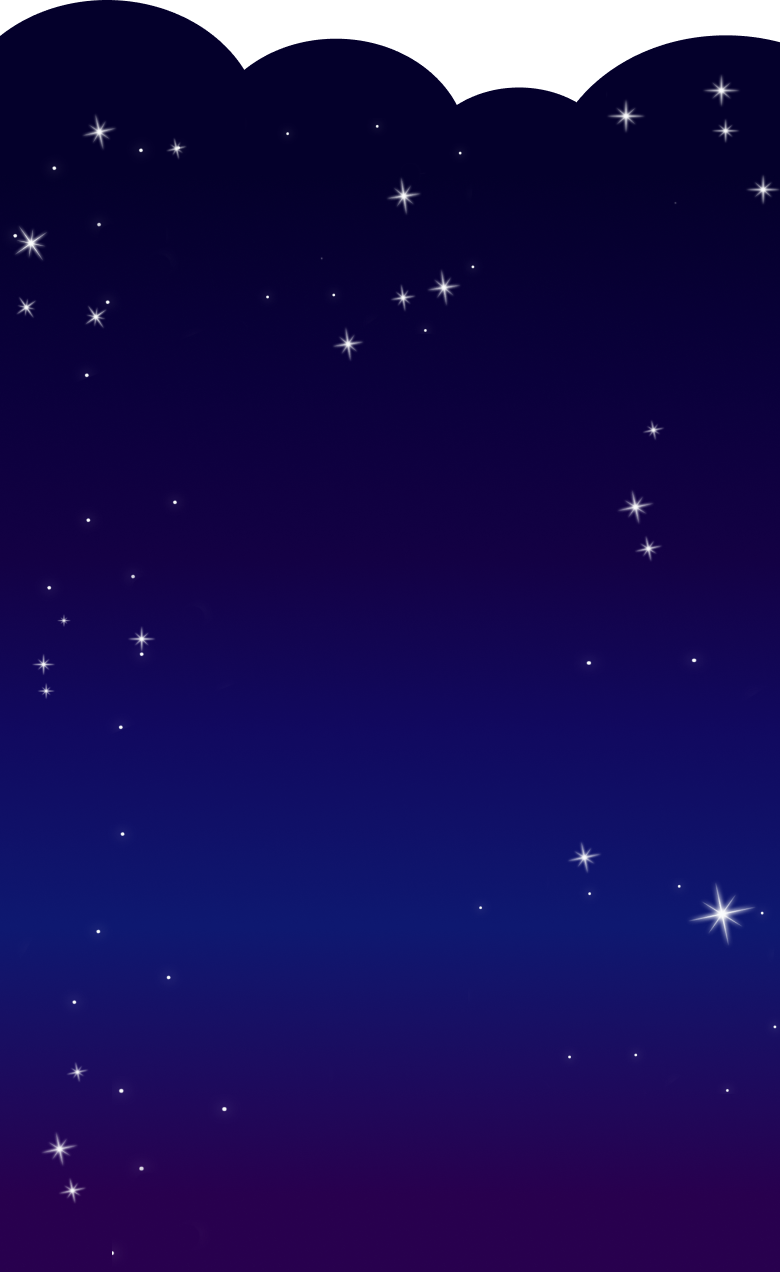
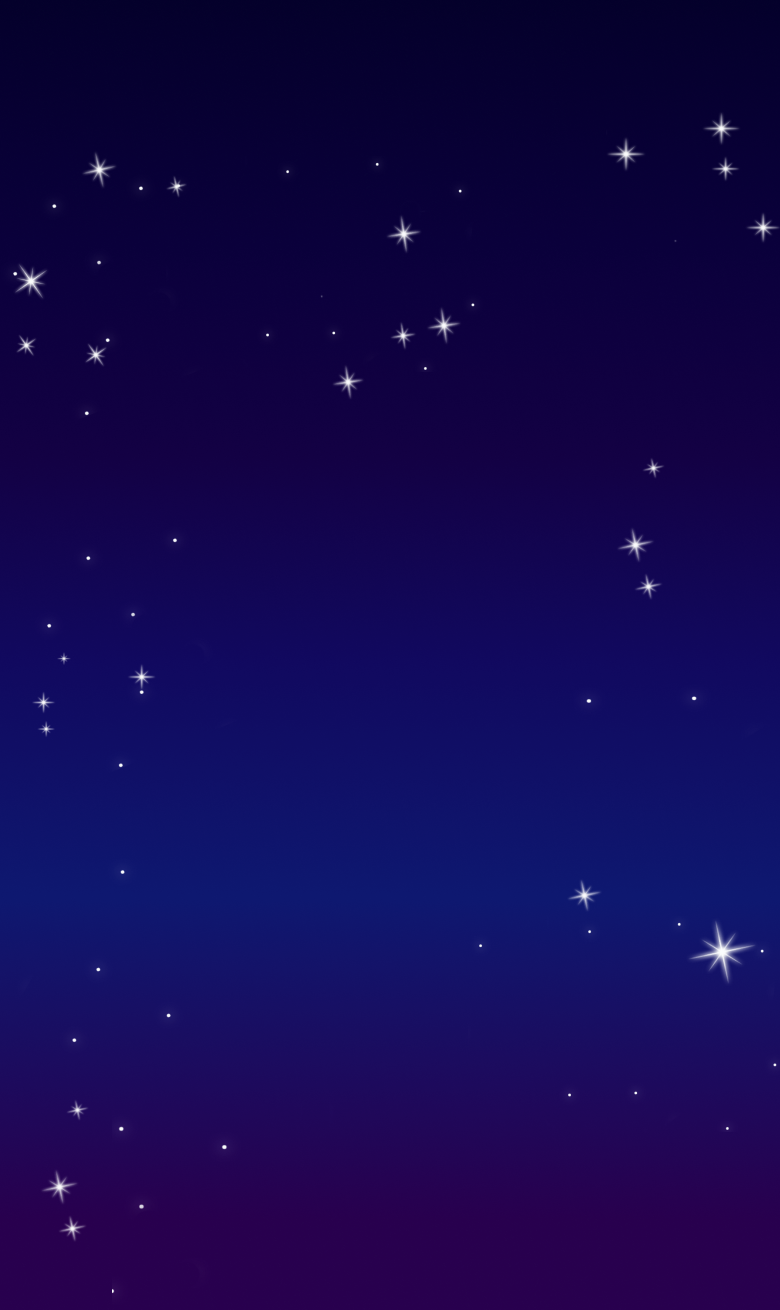
update the landing page

diff --git a/style.css b/style.css
@@ -113,11 +113,21 @@ h2 {
     align-items: center;
     margin: 0 20px;
 }
+.howDoesItWork span {
+    text-transform: uppercase;
+}
+.overlayCloud {
+    width: 100%;
+    margin-top: -5px;
+}
 .experiences {
     background: url("src/img/experiences-bg.png");
     background-repeat: repeat-x;
-    background-size: contain;
-    padding-top: 75px;
+    background-position: bottom;
+    background-attachment: fixed;
+    background-size: cover;
+    color: var(--white-font-color);
+    padding-bottom: 40px;
 }
 .experiences .checkout {
     padding-left: 20px;
@@ -130,11 +140,12 @@ h2 {
 }
 .chooseExperience {
     margin-top: 50px;
-    padding-left: 20px;
+    padding: 0 20px;
     display: grid;
     grid-gap: 20px;
     grid-auto-flow: column;
     overflow-x: auto;
+    overflow-y: hidden;
 }
 .chooseExperience h2 {
     color: white;
@@ -157,8 +168,8 @@ h2 {
     padding: 10px 20px;
 }
 .exp1, .exp2, .exp3, .exp4, .exp5 {
-    height: 17em;
-    width: 15em;
+    height: 18em;
+    width: 10em;
     border-radius: 13px;
 }
 .chooseExperience .expImg {
@@ -207,7 +218,81 @@ h2 {
     border: 1px solid #210943;
     border-radius: 3px;
 }
-
+.dataCollected {
+    background: rgba(14, 9, 53, 0.66);
+    border-radius: 13px;
+    margin: 20px;
+    padding: 20px;
+}
+.dataCollected h3 {
+    text-transform: uppercase;
+    color: var(--white-font-color);
+    letter-spacing: 1px;
+}
+.dataCollected #progressBar {
+    height: 15px;
+    width: 100%;
+    border-radius: 13px;
+    background: white;
+    margin: 10px 0;
+}
+.dataCollected #progress {
+    height: 15px;
+    width: 100%;
+    border-radius: 13px;
+    background: white;
+    margin: 10px 0;
+}
+.dataCollected .dataProgress, .dataCollected .badgesContainer {
+    display: flex;
+    align-items: center;
+}
+.dataProgress #percentage {
+    padding: 0 10px;
+}
+.dataCollected .badgesContainer .badges {
+    display: flex;
+    align-items: flex-end;
+    justify-content: space-between;
+    width: 100%;
+}
+.dataCollected .badgesContainer #collected {
+    padding: 0 10px;
+}
+.complete {
+    text-align: center;
+    padding-top: 15px;
+}
+.lastPart {
+    background: url(src/img/last-bg.png);
+    background-size: cover;
+    background-position: center;
+    color: var(--white-font-color);
+}
+.lastPart .lastPartContainer {
+    background: linear-gradient(180deg, rgba(0, 0, 0, 0.3) 0%, rgba(0, 0, 0, 0.53) 74.48%, rgba(0, 0, 0, 0.92) 100%);
+    padding: 20px;
+}
+.lastPart h2 {
+    text-transform: uppercase;
+    padding: 20px 0;
+}
+.lastPart p {
+    line-height: 1.2em;
+}
+.asteroid {
+    position: relative;
+    text-align: center;
+}
+.asteroid #spacecraftImg {
+    position: absolute;
+    left: 50%;
+    bottom: 50px;
+    margin-left: 80px;
+}
+.logos {
+    text-align: end;
+}
 @media screen and (max-width: 499px){
     /* For mobile phones */
     h2 {
@@ -223,6 +308,10 @@ h2 {
         width: 100%;
         margin-top: -25%;
     }
-
+    .complete p {
+        font-size: 0.7em;
+    }
 }
     
+
+

diff --git a/index.html b/index.html
@@ -37,7 +37,11 @@
             </div>
             <img id="arVideo" src="src/img/howItWorks.png" alt="">
         </div>
+        <!-- <div class="overlay">
+            <img src="src/img/overlay.png" alt="">
+        </div> -->
         <div class="experiences">
+            <img class="overlayCloud" src="src/img/overlay.png" alt="">
             <div class="checkout">
                 <h2>Check out our</h2>
                 <h2><span>Experiences</span></h2>
@@ -83,6 +87,41 @@
                         <a href="">Start!</a>
                     </div>
                 </div>
+            </div>
+            <div class="dataCollected">
+                <h3>Data Collected</h3>
+                <div class="dataProgress">
+                    <div id="progressBar"></div>
+                    <p id="percentage">62%</p>
+                </div>
+                <h3>Badges</h3>
+                <div class="badgesContainer">
+                    <div class="badges">
+                        <img src="src/img/badges/exp1-badge-collected.png" alt="">
+                        <img src="src/img/badges/exp2-badge-collected.png" alt="">
+                        <img src="src/img/badges/exp3-badge.png" alt="">
+                        <img src="src/img/badges/exp4-badge.png" alt="">
+                        <img src="src/img/badges/exp5-badge.png" alt="">
+                    </div>
+                    <p id="collected"><span>2</span>/5</p>
+                </div>
+                <div class="complete">
+                    <p>Complete all of the Psyche experiences to collect all data and earn your badge! </p>
+                </div>
+            </div>
+        </div>
+    </div>
+    <div class="lastPart">
+        <div class="lastPartContainer">
+            <h2>Title</h2>
+            <p>Embark on a quest to the Asteroid Belt in search of the Psyche Asteroid while we journey through the phases of the Psyche Mission. Embark on a quest to the Asteroid Belt in search of the Psyche Asteroid while we journey through the phases of the Psyche Mission. Embark on a quest to the Asteroid Belt in search of the Psyche Asteroid while we journey through the phases of the Psyche Mission. </p>
+            <div class="asteroid">
+                <img id="psycheImg" src="src/img/psyche-asteroid.png" alt="">
+                <img id="spacecraftImg" src="src/img/spacecraft.png" alt="">
+            </div>
+            <div class="logos">
+                <img src="src/img/nasa-logo.png" alt="">
+                <img src="src/img/asu-logo.png" alt="">
             </div>
         </div>
     </div>
